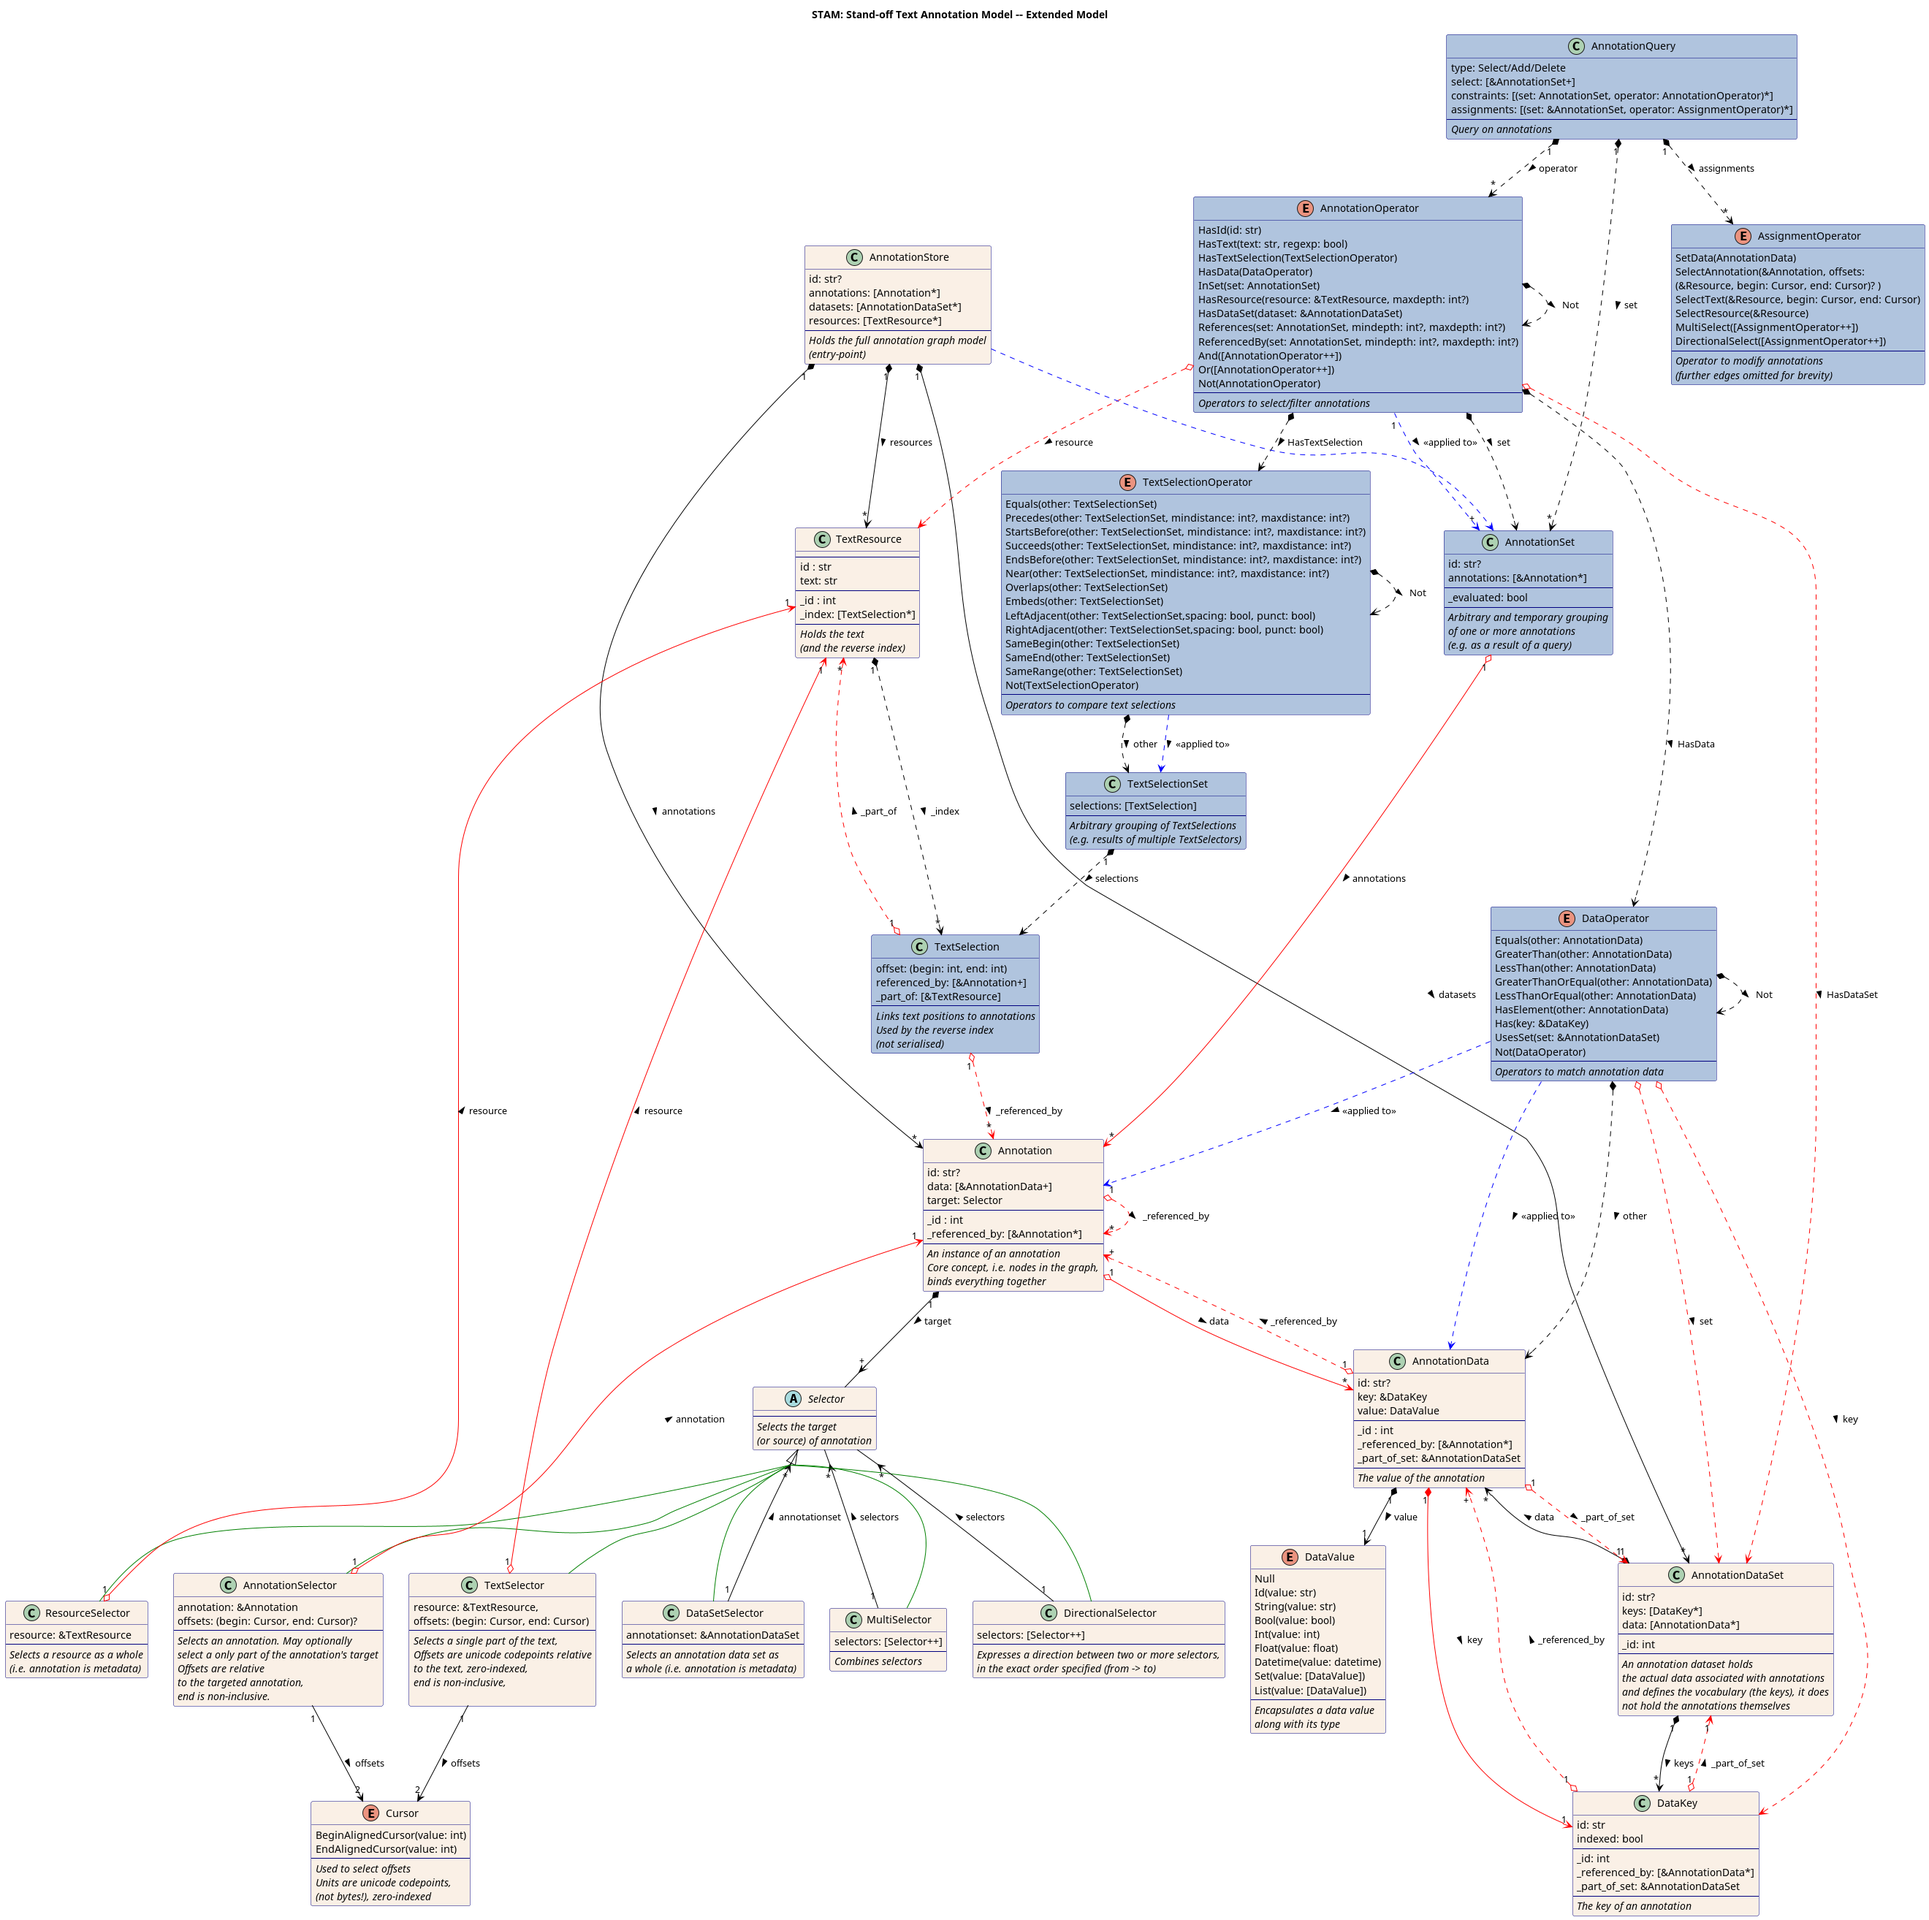
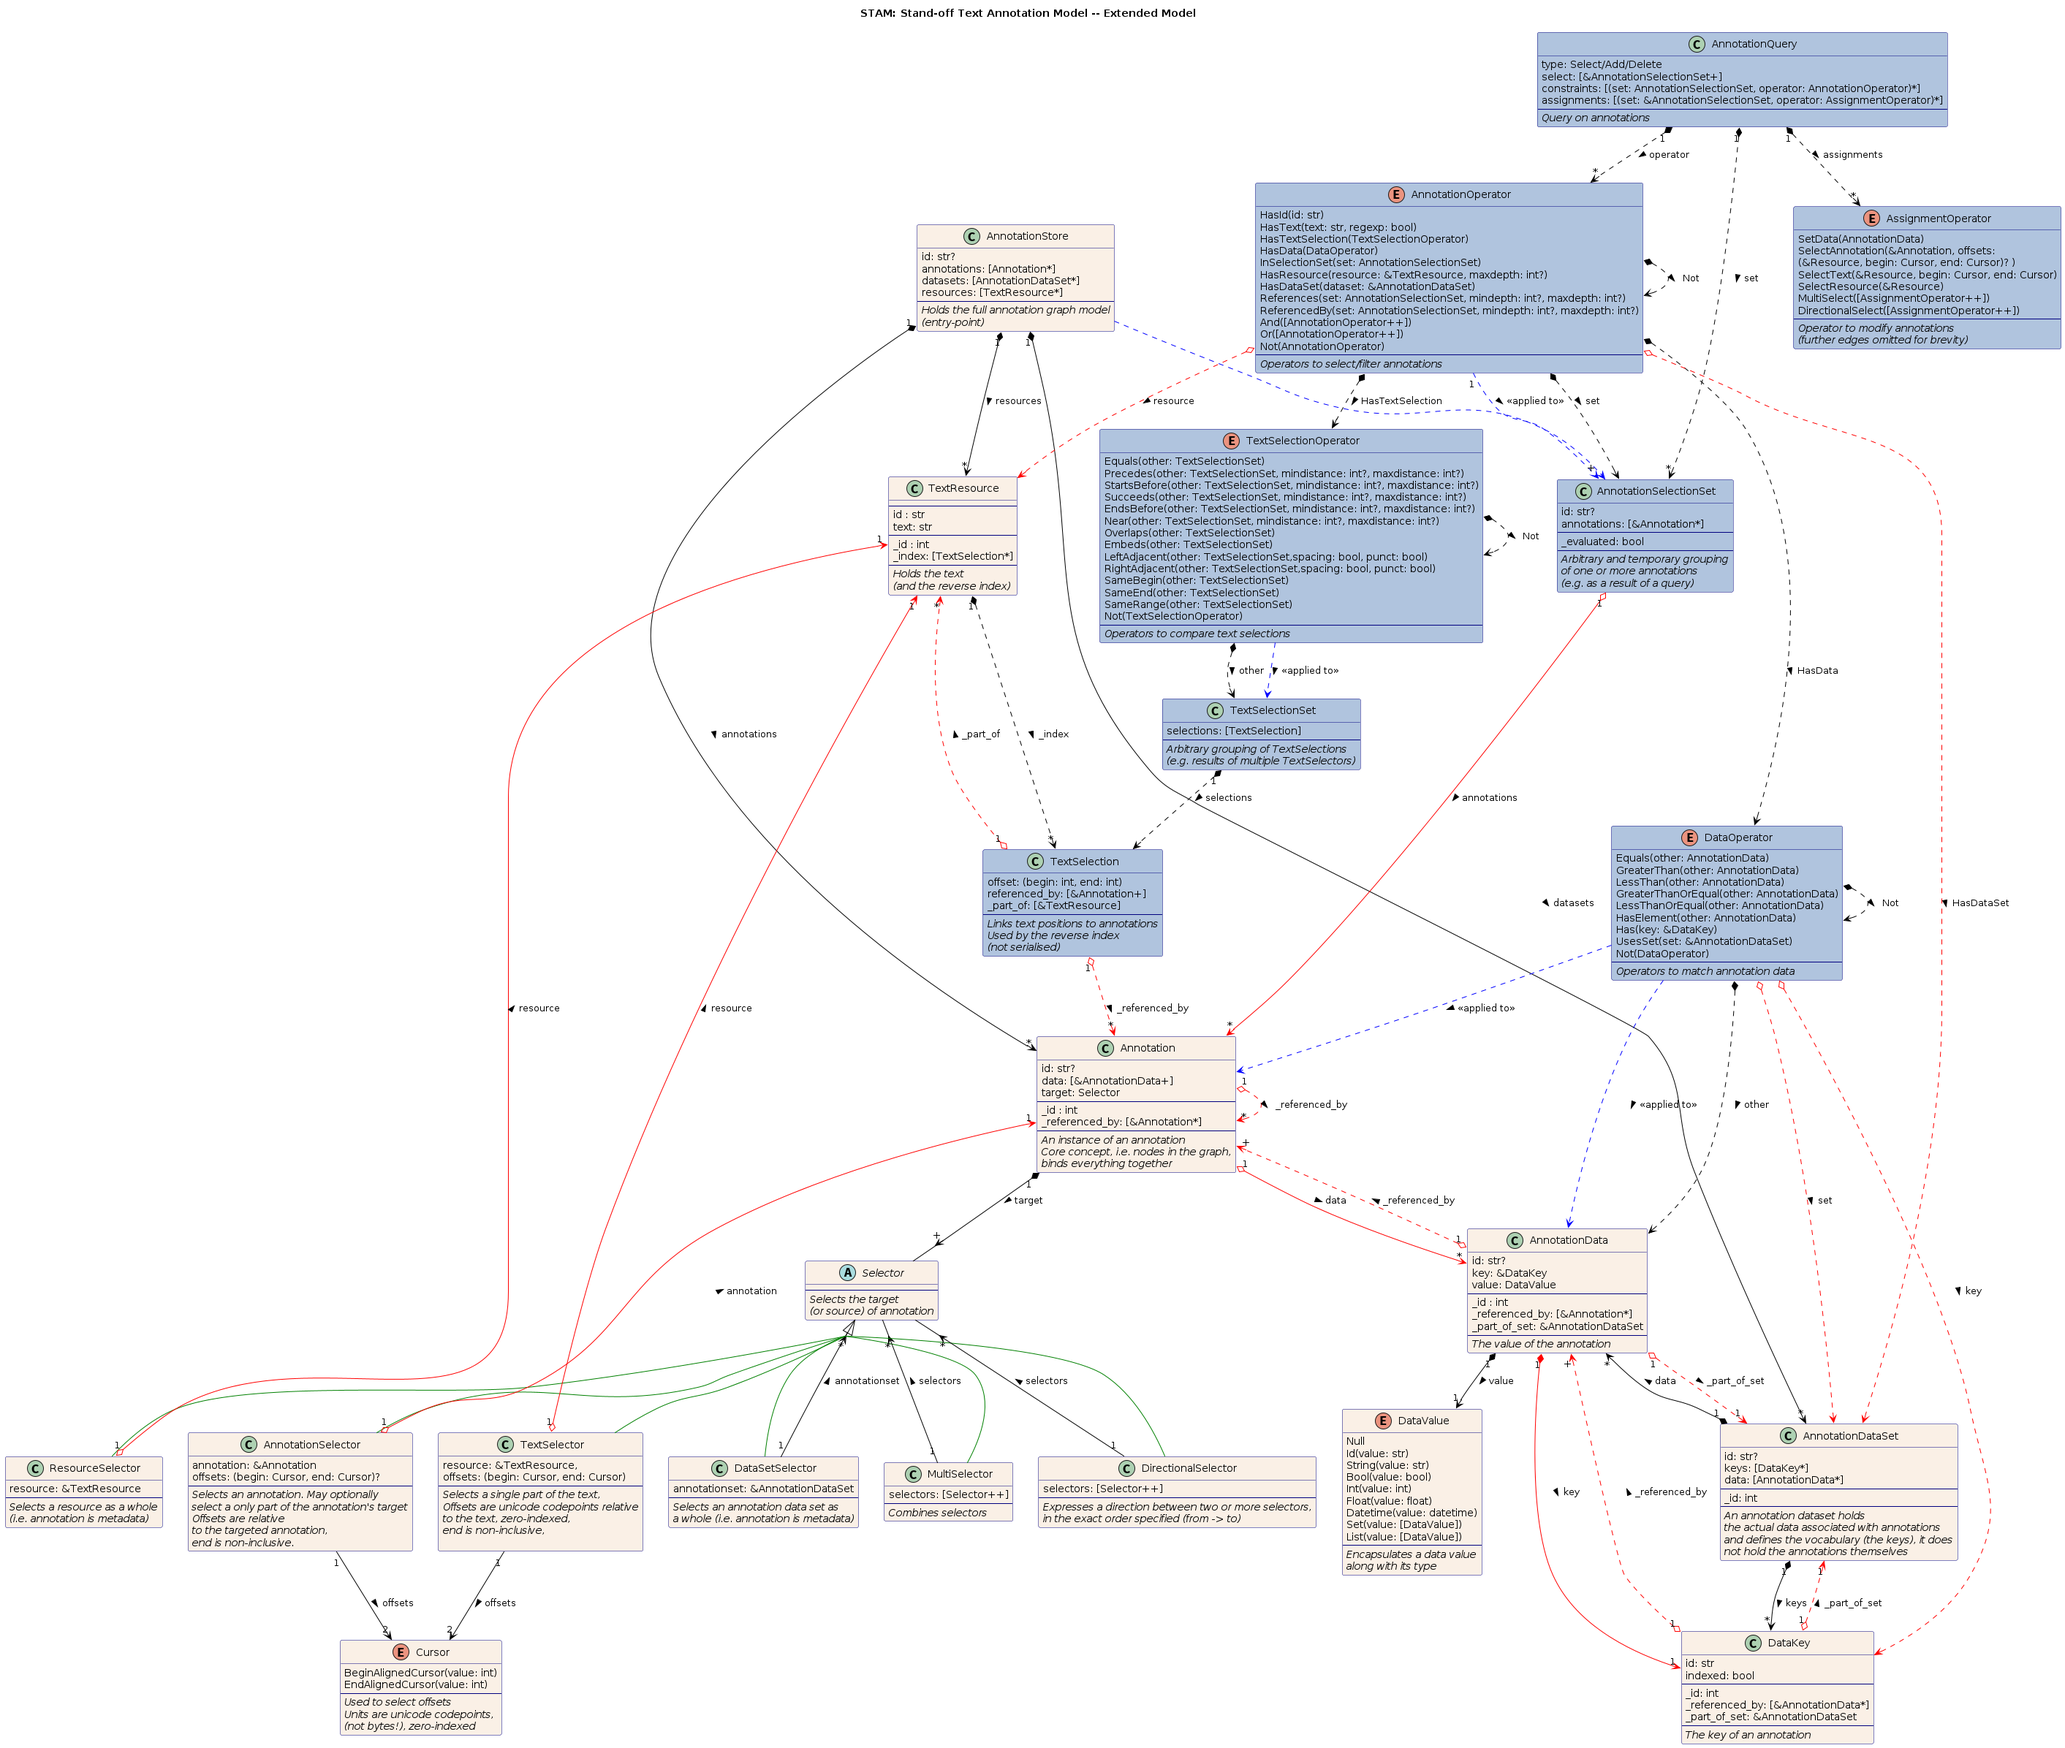
changed some names that might cause confusion with others

diff --git a/README.md b/README.md
@@ -473,41 +473,42 @@ rather than on this one.
 ## Enum: AnnotationOperator
 
 This operator applies on the level of annotations, or to be more precise on
-sets of annotations (aka `AnnotationSet`, more about that in the next section).
+selections/sets of annotations (aka `AnnotationSelectionSet`, more about that in the next section).
 It also encapsulates the two earlier mentioned operators. Like the others, it
 *MUST* evaluate to a boolean.
 
  * `HasId(id: str)` - Select an annotation by ID
  * `HasText(text: str, regexp: bool)` - Tests if the annotation references the (continuous) text, which *MAY* be a regular expression by setting the parameter. This evaluates a `TextSelector` (possibly at the end of a chain of higher-order annotations) and tests its value with the provided string reference.
- * `HasTextSelection(TextSelectionOperator)` - Applies a `TextSelectionOperator`, a *STAM* implementation *MUST* provides the means to get `TextSelectionSet`s from `AnnotationSets`.
+ * `HasTextSelection(TextSelectionOperator)` - Applies a `TextSelectionOperator`, a *STAM* implementation *MUST* provides the means to get `TextSelections` from `AnnotationSelectionSet`.
  * `HasData(DataOperator)` - Applies a `DataOperator` to test the data of the annotation.
- * `InSet(set: AnnotationSet)` - Tests if the annotation is part of a specific annotation set.
+ * `InSelectionSet(set: AnnotationSelectionSet)` - Tests if the annotation is part of a specific annotation selection set.
  * `HasResource(resource: &TextResource, maxdepth: int?)` - Tests if the annotation is on a particular `TextResource`, either directly but also indirectly if `maxdepth` is set to a value greater than zero (default is unset = infinite, set to 0 for a stricter check).
  * `HasDataSet(dataset: &AnnotationDataSet)` - Tests if the annotation uses vocabulary from the specified data set.
- * `References(B: AnnotationSet, mindepth: int?, maxdepth: int?)` - Tests if *all* annotations in A reference an annotation in B (possibly indirectly). 
- * `ReferencedBy(B: AnnotationSet, mindepth: int?, maxdepth: int?)`- Tests if *all* annotations in B reference an annotation in A (possibly indirectly). Evaluates to true if *any* of them passes.
+ * `References(B: AnnotationSelectionSet, mindepth: int?, maxdepth: int?)` - Tests if *all* annotations in A reference an annotation in B (possibly indirectly). 
+ * `ReferencedBy(B: AnnotationSelectionSet, mindepth: int?, maxdepth: int?)`- Tests if *all* annotations in B reference an annotation in A (possibly indirectly). Evaluates to true if *any* of them passes.
  * `And([AnnotationOperator++])` - Set intersection, this operator *SHOULD* be avoided as much as possible in favour of multiple constraint clauses in `AnnotationQuery`
  * `Or([AnnotationOperator++])` - Set union
  * `Not(AnnotationOperator)`
 
-### Class: AnnotationSet
+### Class: AnnotationSelectionSet
 
-An `AnnotationSet` is a fairly arbitrary grouping of one or more `Annotation`
+An `AnnotationSelectionSet` is a fairly arbitrary grouping (a set) of one or more `Annotation`
 instances. The above `AnnotationOperator` is always mediated through this
-class. *Do not confuse* this class with `AnnotationDataSet`, which relates to
-the notion of a vocabulary set and is agnostic of the actual annotations.
+class. 
 
-The `AnnotationSet` is used in searching, where it is also an output. Querying
-a model produces one or more `AnnotationSet`s with the resulting annotations
+The `AnnotationSelectionSet` is used in searching, where it is also an output. Querying
+a model produces one or more `AnnotationSelectionSet`s with the resulting annotations
 that were found (zero or more).
 
-An `AnnotationSet` may carry an ID, which is bound to the name it was given by
+An `AnnotationSelectionSet` may carry an ID, which is bound to the name it was given by
 the `AnnotationQuery`. See the next section.
+
+Do not confuse `AnnotationSelectionSet` with `AnnotationDataSet`, the latter does not contain annotations at all but only their data.
 
 ### Class: AnnotationQuery
 
 The AnnotationQuery class represents a full query on the data or any subset
-thereof. It is applied to an `AnnotationSet` which *MAY* be (and often is
+thereof. It is applied to an `AnnotationSelectionSet` which *MAY* be (and often is
 initially) the set of all annotation in the `AnnotationStore`.
 
 We distinguish three types of queries, the `type`:
@@ -522,13 +523,13 @@ another.
 
 The `AnnotationQuery` class has two properties:
 
-* `constraints` -  This is a list of tuples (`[(set: AnnotationSet, operator:
+* `constraints` -  This is a list of tuples (`[(set: AnnotationSelectionSet, operator:
   AnnotationOperator)*]`) that puts constraints (or filters if you will) to
   select on. In simpler terms, it determines the criteria of what annotations to select. The tuples
-  consist of a *subject* (an AnnotationSet) and an *operator
+  consist of a *subject* (an AnnotationSelectionSet) and an *operator
   *(`AnnotationOperator`), the *object* is already contained within the
-  `AnnotationOperator` in our model and its type depends on the actual operator. This essentially formulates a constraint how how an AnnotationSets relates to something else, for instance we can put the constraint that some set X has operator `AnnotationOperator::HasText("hallå")` or that all instances in annotation set X should reference annotation in set Y: `References(Y)` . How exactly this will be used in querying is explain in the next section.
-* `assignments` - This is a list of tuples (`[(set: &AnnotationSet, operator: AssignmentOperator)*]` ) to add/modify/delete things in the model, as determined by the exact `AssignmentOperator` used.
+  `AnnotationOperator` in our model and its type depends on the actual operator. This essentially formulates a constraint how how an AnnotationSelectionSet relates to something else, for instance we can put the constraint that some set X has operator `AnnotationOperator::HasText("hallå")` or that all instances in annotation set X should reference annotation in set Y: `References(Y)` . How exactly this will be used in querying is explain in the next section.
+* `assignments` - This is a list of tuples (`[(set: &AnnotationSelectionSet, operator: AssignmentOperator)*]` ) to add/modify/delete things in the model, as determined by the exact `AssignmentOperator` used.
 
 ### Querying 
 
@@ -554,16 +555,16 @@ SELECT ?w WHERE ?w SetData(key: "type", value: "word")
 This example translates to an `AnnotationQuery` with two constraints.
 Constraints *MUST* be interpreted as a set *Intersection* (in the pseudo query
 language terms it would be a logical *and* operation). Both constraints have as
-subject the `AnnotationSet` with identifier *w* (represented as ``?w`` in the
+subject the `AnnotationSelectionSet` with identifier *w* (represented as ``?w`` in the
 query where we express in our psuedo-SPARQL-like syntax that it is a bound
 variable). In this example we are querying for annotations that are have
 `AnnotationData` `"type": "word"` (the vocabulary is fictitious and not
 prescribed by STAM), i.e. we are querying for all the words in the model. The
 second constraint states that the words must have the text *"hallå"*.
 
-When querying, this `AnnotationSet` is initially empty, and it will be filled
+When querying, this `AnnotationSelectionSet` is initially empty, and it will be filled
 in a matter that satisfies all constraints. If applied to an `AnnotationStore` like shown in Example A (shown
-earlier in this specification), we obtain a single annotation in our `AnnotationSet` *w*.
+earlier in this specification), we obtain a single annotation in our `AnnotationSelectionSet` *w*.
 
 Let us now consider a more complex example. Assume we have a text with
 annotations marking (via a *type* key) divisions, sentences, words. We let each
@@ -585,14 +586,14 @@ SELECT ?w WHERE ?w References(?s)
                 ?div HasData(Equals(key: "class", value: "chapter"))
 ```
 
-Here we have something that translates to a `AnnotationQuery` with eight constraints and that uses four `AnnotationSet`s, one of which is
+Here we have something that translates to a `AnnotationQuery` with eight constraints and that uses four `AnnotationSelectionSet`s, one of which is
 returned as result (Implementations *MUST* also allow for multiple sets to be
 returned, but this is fairly trivial). The order of the constraints in the
 `AnnotationQuery` *MUST NOT* not matter. It is up to the implementation to determine in
 what order the sets can be filled. To this end, implementations *SHOULD*
 compute and evaluate a dependency graph internally. Queries with circular
 dependencies *MUST BE* rejected by the implementation. Moreover,
-when evaluating constraints for one particular `AnnotationSet`, implementations
+when evaluating constraints for one particular `AnnotationSelectionSet`, implementations
 *SHOULD* prioritize indexed constraints (i.e. constraints that reference a
 `DataKey` that is indexed) over non-indexed constraints. The indices will
 furthermore convey information on how prevalent a certain `DataKey` is, in
